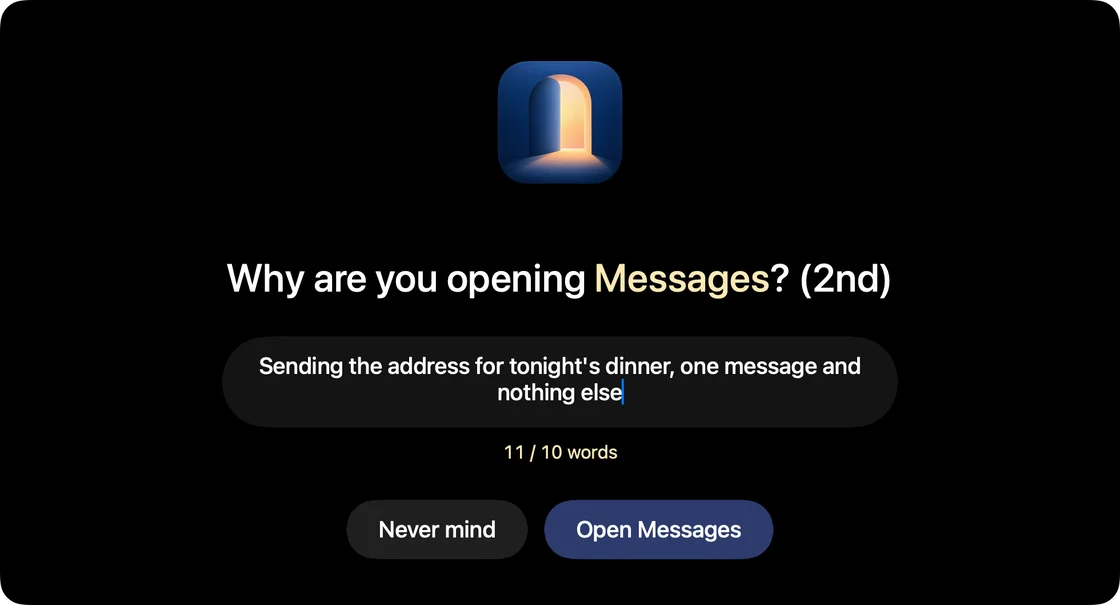
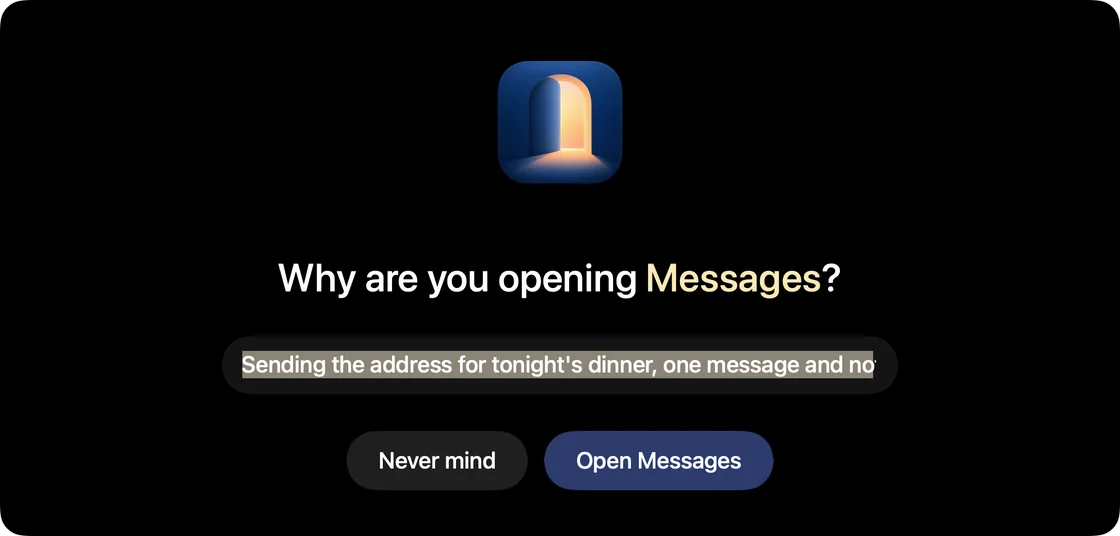
Prompt: 1:1 Doorway's ask page
No word counter, no "(3rd)" after the question, no hint line on expired:
just the question, a one-line pill input with a warm caret, Never mind and
Open (dimmed until 10 words). Return submits too. ordinal() and
reasonsToday() went with it.

Changed region(s): [[0.1875, 0.4179, 0.8125, 0.9254], [0.4375, 0.2388, 0.5625, 0.3582], [0.4375, 0.0896, 0.5625, 0.1791]]

diff --git a/Sources/DoorwayDesktop/Prompt.swift b/Sources/DoorwayDesktop/Prompt.swift
@@ -76,7 +76,7 @@ private final class PromptText: ObservableObject {
 
 /// The reason prompt: a see-through panel above all windows, centered on the black backdrop, so the gated app's window
 /// can't be seen even when it briefly unhides itself. Looks like Doorway's ask page. One at a time.
-/// ⌘↵ submits once there are enough words, Esc cancels. The same panel shows the super lock notice.
+/// Return or ⌘↵ submits once there are enough words, Esc cancels. The same panel shows the super lock notice.
 @MainActor
 final class PromptController {
     private let backdrop: Backdrop
@@ -90,11 +90,9 @@ final class PromptController {
         self.backdrop = backdrop
     }
 
-    func show(app: GatedApp, trigger: Trigger, nthToday: Int, minutes: Int,
-              onSubmit: @escaping (String) -> Void, onCancel: @escaping () -> Void) {
+    func show(app: GatedApp, trigger: Trigger, onSubmit: @escaping (String) -> Void, onCancel: @escaping () -> Void) {
         let text = PromptText()
-        let view = PromptView(app: app, trigger: trigger, nthToday: nthToday, minutes: minutes, text: text,
-                              onSubmit: { onSubmit(text.value) }, onCancel: onCancel)
+        let view = PromptView(app: app, trigger: trigger, text: text, onSubmit: { onSubmit(text.value) }, onCancel: onCancel)
         open(view, for: app, onEscape: onCancel) {
             if wordCount(text.value) >= minimumWords { onSubmit(text.value) }
         }
@@ -168,44 +166,31 @@ final class PromptController {
     }
 }
 
+/// Doorway's ask page, 1:1: the question, one pill input, two buttons. Open stays dimmed until the reason has
+/// `minimumWords` words.
 private struct PromptView: View {
     let app: GatedApp
     let trigger: Trigger
-    let nthToday: Int
-    let minutes: Int
     @ObservedObject var text: PromptText
     let onSubmit: () -> Void
     let onCancel: () -> Void
     @FocusState private var focused: Bool
 
     var body: some View {
-        let words = wordCount(text.value)
-        let enough = words >= minimumWords
+        let enough = wordCount(text.value) >= minimumWords
         DoorwayPage {
-            VStack(spacing: 12) {
-                Text("\(trigger.question(app.name)) (\(ordinal(nthToday)))")
-                if trigger == .expired {
-                    Text("Your \(minutes) min ran out, so \(app.name) is hidden.")
-                        .font(.system(size: 20))
-                        .foregroundStyle(.white.opacity(0.6))
-                }
-            }
-            VStack(spacing: 12) {
-                TextEditor(text: $text.value)
-                    .font(.system(size: 20, weight: .medium))
-                    .multilineTextAlignment(.center)
-                    .scrollContentBackground(.hidden)
-                    .scrollIndicators(.never)
-                    .focused($focused)
-                    .padding(.horizontal, 24)
-                    .padding(.vertical, 14)
-                    .frame(width: 592, height: 80)
-                    .background(.white.opacity(0.08), in: RoundedRectangle(cornerRadius: 40))
-                Text("\(words) / \(minimumWords) words")
-                    .font(.system(size: 16))
-                    .monospacedDigit()
-                    .foregroundStyle(enough ? Doorway.light : .white.opacity(0.5))
-            }
+            trigger.question(app.name)
+            TextField("", text: $text.value)
+                .textFieldStyle(.plain)
+                .font(.system(size: 20, weight: .medium))
+                .multilineTextAlignment(.center)
+                .tint(Doorway.light)
+                .focused($focused)
+                .onSubmit { if enough { onSubmit() } }
+                .padding(.horizontal, 24)
+                .padding(.vertical, 14)
+                .frame(width: 592)
+                .background(.white.opacity(0.08), in: Capsule())
             HStack(spacing: 14) {
                 Button("Never mind", action: onCancel).buttonStyle(PillButtonStyle())
                 Button("Open \(app.name)", action: onSubmit)

diff --git a/Tests/DoorwayDesktopCoreTests/DoorwayDesktopCoreTests.swift b/Tests/DoorwayDesktopCoreTests/DoorwayDesktopCoreTests.swift
@@ -312,22 +312,6 @@ final class LogTests: XCTestCase {
         try log.append(second)
         XCTAssertEqual(log.readAll(), [first, second])
     }
-
-    func testReasonsTodayCountsOnlyReasonKinds() {
-        let entries = [
-            LogEntry(ts: date(9), bundleId: "signal", app: "Signal", kind: .launch, reason: "r"),
-            LogEntry(ts: date(10), bundleId: "signal", app: "Signal", kind: .cancelled),
-            LogEntry(ts: date(11), bundleId: "slack", app: "Slack", kind: .switch, reason: "r"),
-            LogEntry(ts: date(day: 13, 11), bundleId: "signal", app: "Signal", kind: .expired, reason: "r"),
-        ]
-        XCTAssertEqual(reasonsToday(entries, bundleId: "signal", now: date(12), calendar: utc), 1)
-        XCTAssertEqual(reasonsToday(entries, now: date(12), calendar: utc), 2)
-    }
-
-    func testOrdinal() {
-        XCTAssertEqual([1, 2, 3, 4, 11, 12, 13, 21, 102, 111].map(ordinal),
-                       ["1st", "2nd", "3rd", "4th", "11th", "12th", "13th", "21st", "102nd", "111th"])
-    }
 }
 
 final class GatedAppTests: XCTestCase {

diff --git a/Sources/DoorwayDesktop/Gatekeeper.swift b/Sources/DoorwayDesktop/Gatekeeper.swift
@@ -111,7 +111,7 @@ final class Gatekeeper {
             if prompt.isShowing {
                 prompt.bringToFront()
             } else {
-                ask(entry, trigger: expired ? .expired : isFresh(app, now: now) ? .launch : .switch, now: now)
+                ask(entry, trigger: expired ? .expired : isFresh(app, now: now) ? .launch : .switch)
             }
         }
     }
@@ -284,11 +284,9 @@ final class Gatekeeper {
         }
     }
 
-    private func ask(_ entry: GatedApp, trigger: Trigger, now: Date) {
+    private func ask(_ entry: GatedApp, trigger: Trigger) {
         prompt.show(
             app: entry, trigger: trigger,
-            nthToday: reasonsToday(model.entries, bundleId: entry.bundleId, now: now) + 1,
-            minutes: model.rules.minutesPerReason(entry.bundleId, at: now),
             onSubmit: { [weak self] reason in self?.submit(entry, trigger: trigger, reason: reason) },
             onCancel: { [weak self] in self?.cancel(entry) })
     }

diff --git a/Sources/DoorwayDesktopCore/Reason.swift b/Sources/DoorwayDesktopCore/Reason.swift
@@ -7,16 +7,3 @@ public let minimumWords = 10
 public func wordCount(_ text: String) -> Int {
     text.split(whereSeparator: { $0.isWhitespace }).count
 }
-
-/// 1st, 2nd, 3rd, 4th, 11th, 21st... for the "(3rd)" after the prompt's question.
-public func ordinal(_ n: Int) -> String {
-    let suffix: String
-    switch (n % 10, n % 100) {
-    case (_, 11...13): suffix = "th"
-    case (1, _): suffix = "st"
-    case (2, _): suffix = "nd"
-    case (3, _): suffix = "rd"
-    default: suffix = "th"
-    }
-    return "\(n)\(suffix)"
-}

diff --git a/Sources/DoorwayDesktopCore/ReasonLog.swift b/Sources/DoorwayDesktopCore/ReasonLog.swift
@@ -87,10 +87,3 @@ public struct ReasonLog {
         return text.split(separator: "\n").compactMap { try? LogCodec.decode(String($0)) }
     }
 }
-
-/// Reasons given today (launch/switch/expired), for one app or all of them.
-public func reasonsToday(_ entries: [LogEntry], bundleId: String? = nil, now: Date, calendar: Calendar = .current) -> Int {
-    entries.filter {
-        $0.kind.hasReason && (bundleId == nil || $0.bundleId == bundleId) && calendar.isDate($0.ts, inSameDayAs: now)
-    }.count
-}
